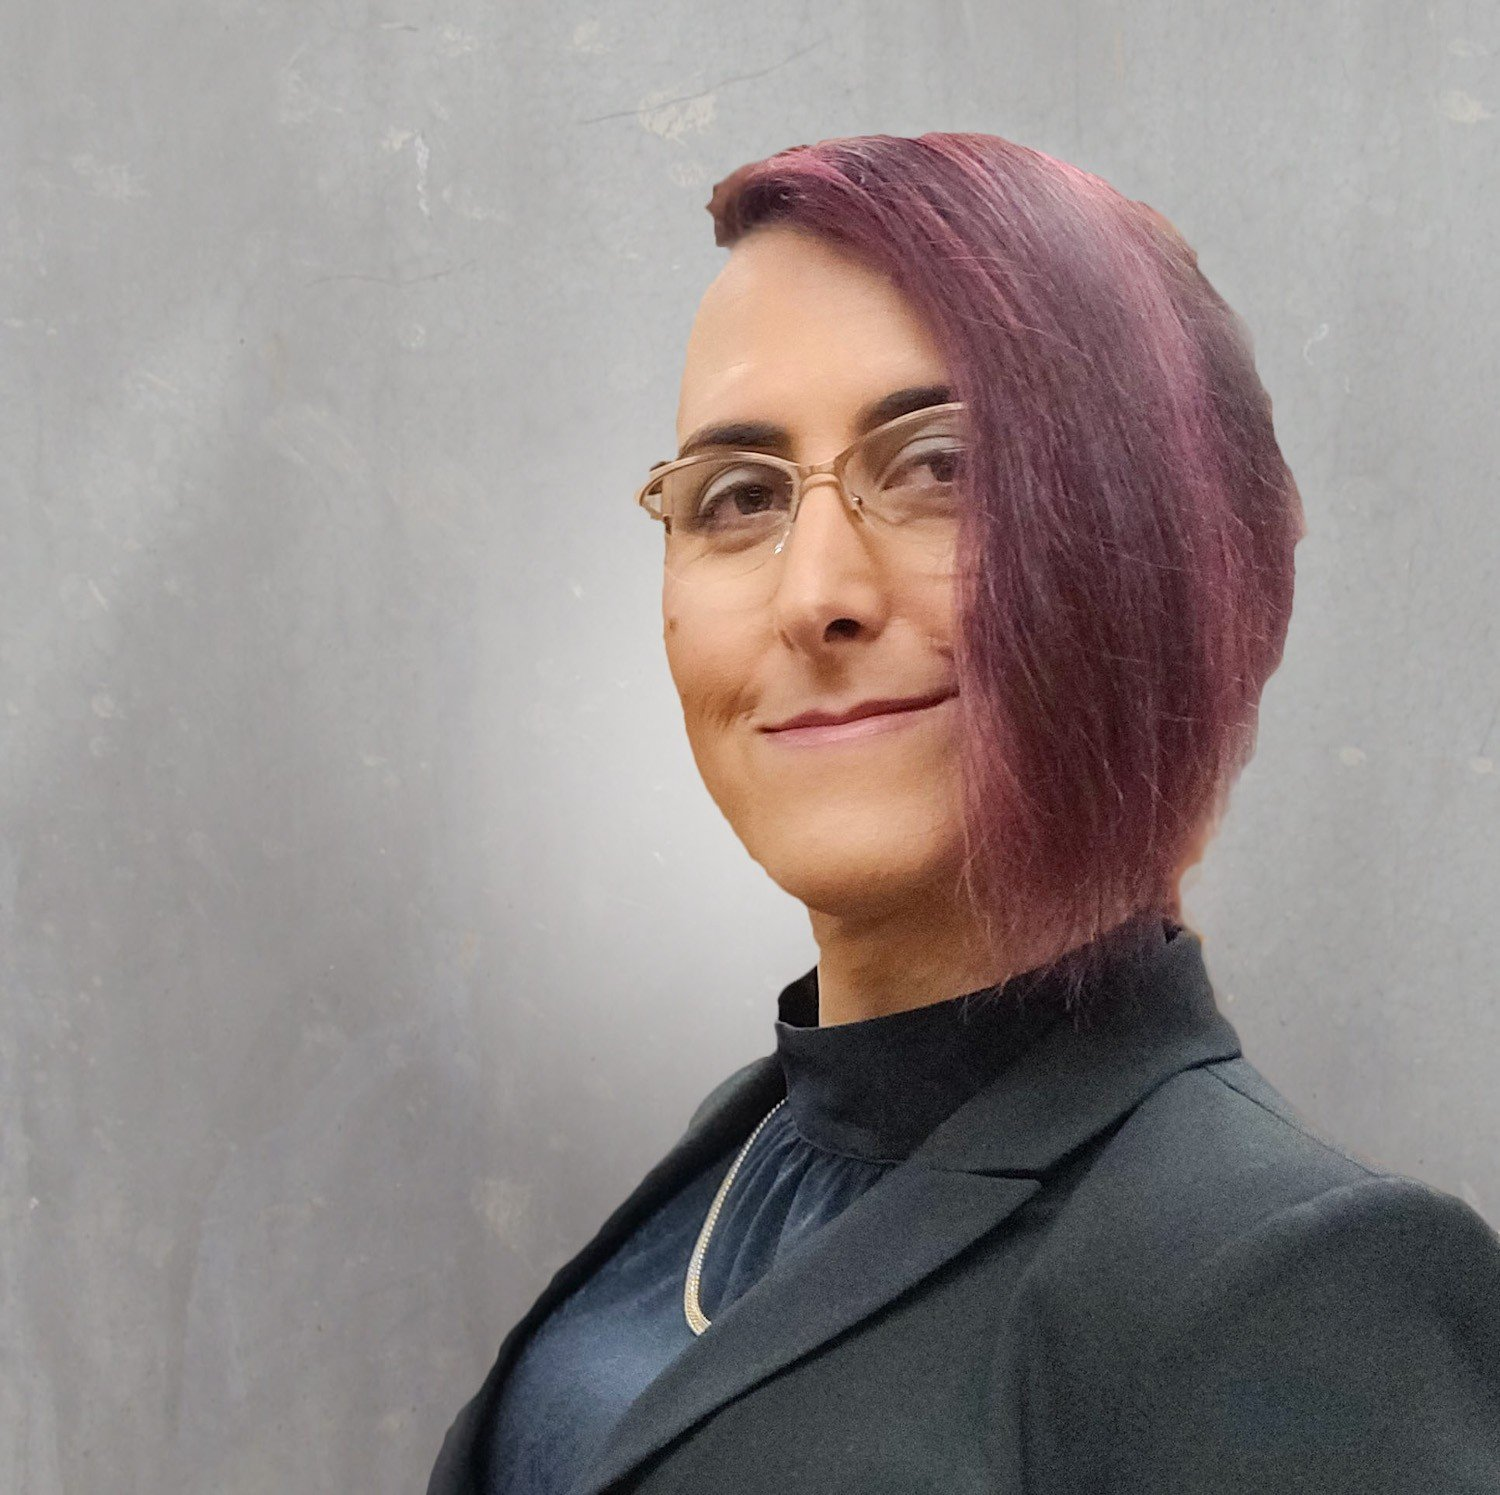
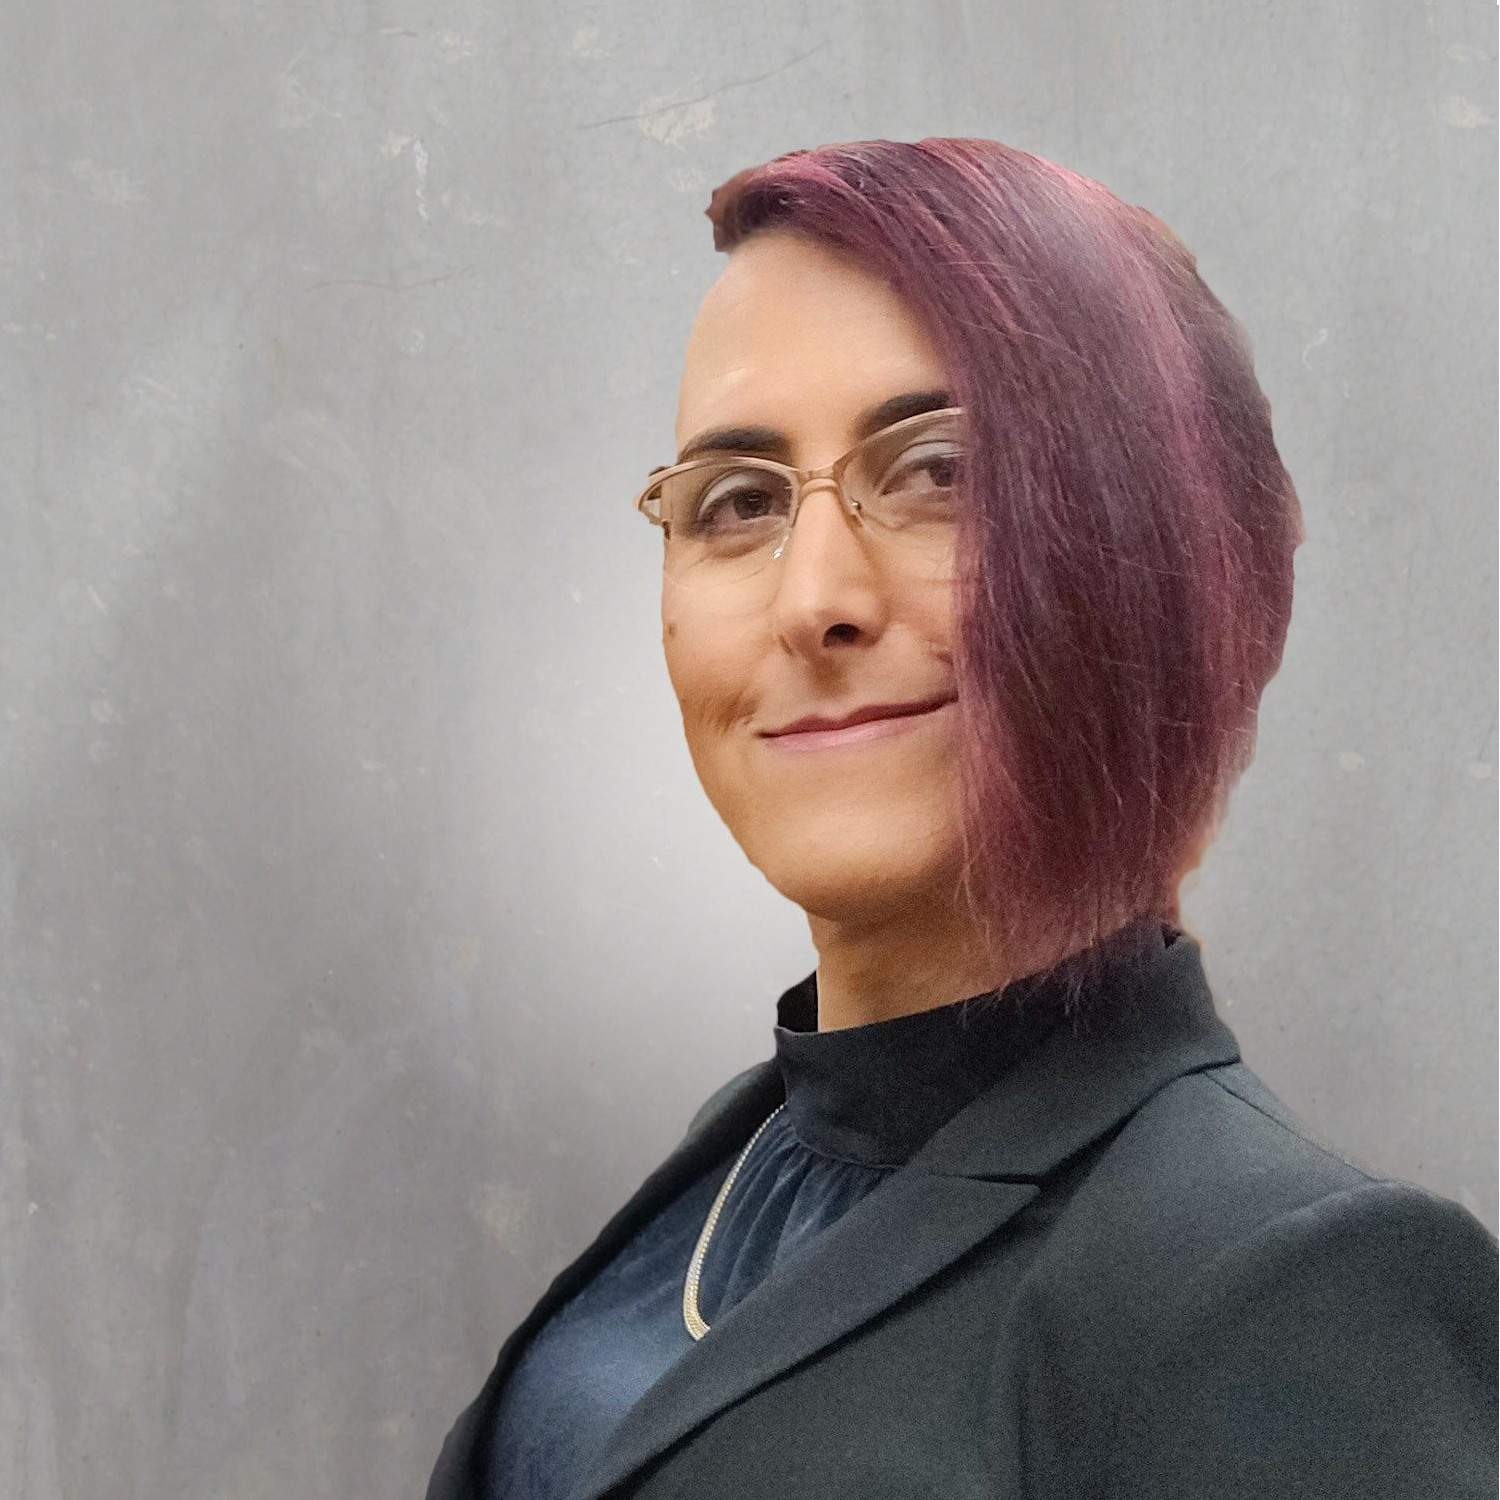
create full length bio page, and add new talk links

diff --git a/about/bios/index.html b/about/bios/index.html
@@ -1,0 +1,127 @@
+<!DOCTYPE html>
+<html lang="en">
+    <head>
+      <meta http-equiv="X-UA-Compatible" content="IE=edge">
+      <meta http-equiv="content-type" content="text/html; charset=utf-8">
+
+      <!-- Enable responsiveness on mobile devices-->
+      <meta name="viewport" content="width=device-width, initial-scale=1.0, maximum-scale=1">
+
+      <title>Adventures in Self</title>
+
+      
+        <link rel="alternate" type="application/rss+xml" title="RSS" href="/rss.xml">
+      
+
+      
+          <link rel="stylesheet" href="/site.css">
+      
+
+      
+      
+    </head>
+
+    <body class="hack dark main container">
+        
+    
+        
+                
+                    <header>
+                        <nav itemscope itemtype="http://schema.org/SiteNavigationElement">
+                        
+                            <a itemprop="url"
+                               class=""
+                               href="&#x2F;about&#x2F;">
+                                <span itemprop="name">| home |
+                                </span></a>
+                        
+                            <a itemprop="url"
+                               class=""
+                               href="&#x2F;journal&#x2F;">
+                                <span itemprop="name">journal |
+                                </span></a>
+                        
+                            <a itemprop="url"
+                               class=""
+                               href="&#x2F;media&#x2F;">
+                                <span itemprop="name">other media |
+                                </span></a>
+                        
+                            <a itemprop="url"
+                               class=""
+                               href="&#x2F;contact&#x2F;">
+                                <span itemprop="name">contact me |
+                                </span></a>
+                        
+                            <a itemprop="url"
+                               class=""
+                               href="&#x2F;tags&#x2F;">
+                                <span itemprop="name">search |
+                                </span></a>
+                        
+                        </nav>
+                    </header>
+                    <br><br>
+                
+            
+    
+
+<article itemscope itemtype="http://schema.org/BlogPosting">
+    <header>
+        <h1 itemprop="headline">Bios and Headshots</h1>
+        <span class="muted">
+    <svg style="margin-bottom:-3px" class="i-clock" viewBox="0 0 32 32"
+         width="16" height="16" fill="none" stroke="currentcolor"
+         stroke-linecap="round" stroke-linejoin="round" stroke-width="6.25%">
+        <circle cx="16" cy="16" r="14"/>
+        <path d="M16 8 L16 16 20 20"/>
+    </svg>
+    <span>3 minute read</span>
+    <svg style="margin-bottom: -3px" class="i-edit" viewBox="0 0 32 32"
+         width="16" height="16" fill="none" stroke="currentcolor"
+         stroke-linecap="round" stroke-linejoin="round" stroke-width="6.25%">
+        <path d="M30 7 L25 2 5 22 3 29 10 27 Z M21 6 L26 11 Z M5 22 L10 27 Z"/>
+    </svg>
+
+    
+</span>
+    </header>
+    <div itemprop="articleBody">
+      <h2 id="short-and-personal-500-characters">Short and Personal (500 characters)</h2>
+<p>Aeva Black is an incurably queer geek, a Seattle'ite, and an open source hacker in the Azure Office of the CTO, passionate about making our digital world more secure, ethical, and inclusive. At the moment, their efforts are focused on open source software supply chain security, cloud native computing, and confidential computing. In a past life, they led the creation of OpenStack's Bare Metal Cloud project, lived on a tiny farm in the Olympic Mountains, and raised a pair of wolves.</p>
+<h2 id="general-purpose-1-100-characters">General Purpose (1,100 characters)</h2>
+<p>Aeva Black is an open source hacker in the Azure Office of the CTO, working on software supply chain security, confidential computing, and cloud native computing. They serve on the Board of the Open Source Initiative, the non-profit which stewards the definition of &quot;open source&quot;, and previously held positions in the Confidential Computing Consortium and on the OpenStack Technical Committee. While a Master Engineer at HP Cloud in 2013, Aeva led the creation of the OpenStack &quot;Ironic&quot; bare metal cloud project, which continues to power important non-profit scientific workloads such as CERN.</p>
+<p>Aeva is a queer and non-binary geek, a lifelong student of the buddha dharma, and an aspiring author who was recently published in Transcending, an anthology of trans buddhist authors. In addition to their technical work, they are committed to improving diversity and inclusion in the tech industry, advocating for digital privacy rights and consent culture. They also served for several years on the Board of the Consent Academy, a Seattle-area non-profit that advocates for consent in all aspects of life.</p>
+<h2 id="open-source-full-length-1-500-characters">Open Source - Full Length (1,500 characters)</h2>
+<p>Aeva Black is a dot-com veteran, an open source hacker, a policy wonk, and a queer and non-binary geek. Their career started in '99 in the media and gaming industry, building decentralized network services with open source software, and has included leading roles in both startups and in big tech. From their current position in the Azure Office of the CTO's Open Source Ecosystems team, Aeva advises many teams working on software supply chain security, confidential computing, and digital privacy.</p>
+<p>Aeva brings to policy and governance discussions a perspective that is grounded in years of engineering leadership and which centers impacts on under-represented groups. They founded the OpenStack Ironic project in 2013 while working at HPE.</p>
+<p>Aeva's prior community work includes supporting the growth of the Confidential Computing Consortium, hosting meetups and unconferences, and serving on the OpenStack Technical Committee and the Kubernetes Code of Conduct Committee. They brought a framework for Consent Culture to Kubernetes, and instated a restorative approach to incident handling based on years of volunteering with local communities in the Pacific Northwest.</p>
+<p>Aeva also served on the Board of Directors for the Consent Academy, a Seattle-area educational non-profit, for several years. They were published in 2019 in &quot;Transcending&quot;, an anthology of trans buddhist writers, and are the technical editor of a forth-coming book, &quot;Trust in Computer Systems and the Cloud&quot; (eta Jan '22).</p>
+<h2 id="head-shots">Head shots</h2>
+<p>(1500 x 1500) 
+<img src="profile.jpeg" width="600"></p>
+<p>(500 x 500)
+<img src="profile_500.jpeg" width="200"></p>
+<p>(300 x 300)
+<img src="profile_300.jpeg" width="125"></p>
+
+    </div>
+
+    
+        <footer>
+            <hr>
+            <p>
+                
+                
+                
+            </p>
+            
+            
+        </footer>
+    
+</article>
+
+
+    </body>
+
+</html>

diff --git a/media/index.html b/media/index.html
@@ -93,16 +93,19 @@
 <em>Details available by respectful request.</em></p>
 <p><strong>2005 - 2011</strong>: Semi-annual talks about MySQL Replication and Scalability.</p>
 <p><strong>2011 - 2017</strong>: Many talks about OpenStack and Bare Metal Clouds at events around the world.</p>
-<h1 id="upcoming-talks">Upcoming Talks</h1>
+<h1 id="upcoming-appearances">Upcoming Appearances</h1>
 <table><thead><tr><th>Date</th><th>Event</th><th>Session</th></tr></thead><tbody>
-<tr><td>3 Nov</td><td><a href="https://events.linuxfoundation.org/lf-member-summit/">Linux Foundation Member Summit</a></td><td><a href="https://sched.co/nDn3">Walking the Cultural Tightrope: Why We Need Codes of Conduct, and Why They're Not Enough</a></td></tr>
-<tr><td>5-6 Nov</td><td>SeaGL</td><td><a href="https://osem.seagl.org/conferences/seagl2021/program/proposals/828">Computing Confidentially in the Clouds</a> and <a href="https://osem.seagl.org/conferences/seagl2021/program/proposals/829">Walking the Cultural Tightrope</a></td></tr>
-<tr><td>... and more!</td><td></td><td></td></tr>
+<tr><td>Nov 17-18</td><td><a href="https://openinfra.dev/live/keynotes">OpenInfra Keynotes: Live</a></td><td>&quot;Open Source has Won. What now?&quot; (link after event)</td></tr>
+<tr><td>TBD</td><td>CDFoundation Podcast</td><td></td></tr>
+<tr><td>Jan 2022</td><td>AASECT Training @ Antioch</td><td>Educational Panel - perspective on queer and trans experience</td></tr>
 </tbody></table>
 <h1 id="2021">2021</h1>
 <table><thead><tr><th>Date</th><th>Event / Publication</th><th>Details</th></tr></thead><tbody>
+<tr><td>6 Nov</td><td><a href="https://seagl.org/news/2021/11/06/day-2-schedule.html">SeaGL</a></td><td><a href="https://youtu.be/1GiwoMkuSHg?t=8160">Walking the Cultural Tightrope: Why We Need Codes of Conduct, and Why They're Not Enough</a></td></tr>
+<tr><td>6 Nov</td><td><a href="https://seagl.org/news/2021/11/06/day-2-schedule.html">SeaGL</a></td><td><a href="https://youtu.be/1GiwoMkuSHg?t=10747">Computing Confidentially in the Clouds</a></td></tr>
+<tr><td>3 Nov</td><td><a href="https://events.linuxfoundation.org/lf-member-summit/">Linux Foundation Member Summit</a></td><td><a href="https://sched.co/nDn3">Walking the Cultural Tightrope: Why We Need Codes of Conduct, and Why They're Not Enough</a> (no recording)</td></tr>
 <tr><td>27 Oct</td><td><a href="https://github.com/danpopnyc/popcast">PopCast</a></td><td><a href="https://popcast-d9f7b6dc.simplecast.com/episodes/episode-91-microsoft-azures-aeva-black-an-open-source-dragon">Microsoft Azure's Aeva Black an Open Source Dragon</a></td></tr>
-<tr><td>15 Oct</td><td>CNCF</td><td><a href="https://www.cncf.io/announcements/2021/10/15/cloud-native-computing-foundation-announces-2021-community-awards-winners/">2021 Community &quot;Chop Wood Carry Water&quot; award</a></td></tr>
+<tr><td>15 Oct</td><td><a href="https://cncf.io">Cloud Native Computing Foundation</a></td><td><a href="https://www.cncf.io/announcements/2021/10/15/cloud-native-computing-foundation-announces-2021-community-awards-winners/">2021 Community &quot;Chop Wood Carry Water&quot; award</a></td></tr>
 <tr><td>11 Oct</td><td><a href="https://supplychainsecurityconna21.sched.com/">Supply Chain Security Con</a></td><td><a href="https://sched.co/n00A">Finding Your Way: a Survey of Supply Chains</a></td></tr>
 <tr><td>19 Oct</td><td><a href="https://secdev.ieee.org/2021/home">IEEE-SecDev</a></td><td><a href="https://secdev.ieee.org/2021/software-supply-chain/">Panel: Understanding and Mitigating Software Supply Chain Security Risks</a></td></tr>
 <tr><td>27 Sept</td><td><a href="https://events.linuxfoundation.org/open-source-summit-north-america">Open Source Summit (OSSNA)</a></td><td><a href="https://sched.co/lAUA">Evolving the Confidential Computing Consortium</a></td></tr>

diff --git a/about/index.html b/about/index.html
@@ -87,7 +87,7 @@
 </span>
     </header>
     <div itemprop="articleBody">
-      <p><img src="profile.jpeg"
+      <p><img src="profile_300.jpeg"
  alt="Profile photo of a non-binary person with olive skin, sporting purple chin-length hair and a side shave, with gold-rimmed glasses. The background is grey with a highlighting or halo effect. The person is wearing a charcoal colored suit jacket, burgundy silk blouse, and a gold chain necklace."
  style="float: right;" width="250" /></p>
 <p>NAME: Aeva Black</p>
